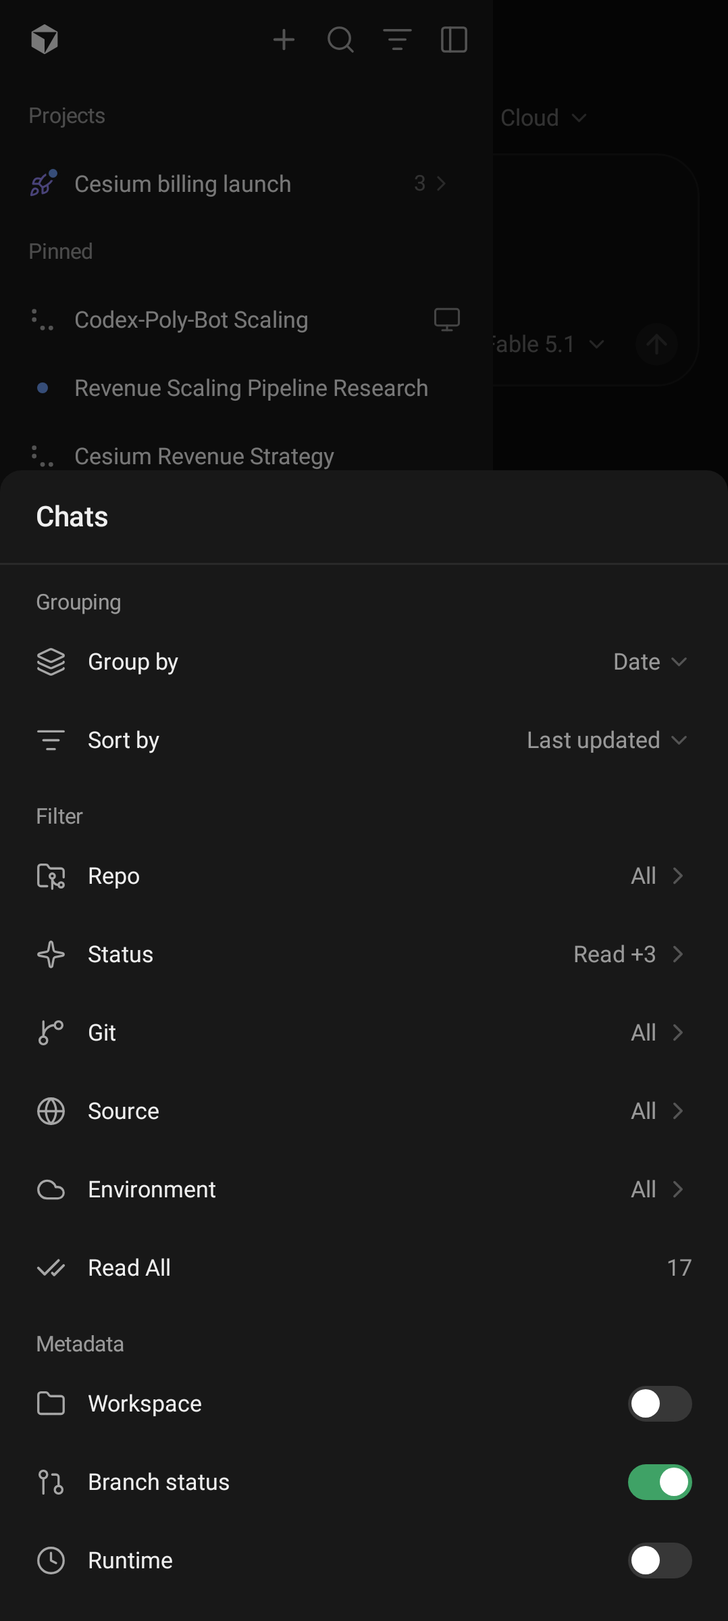
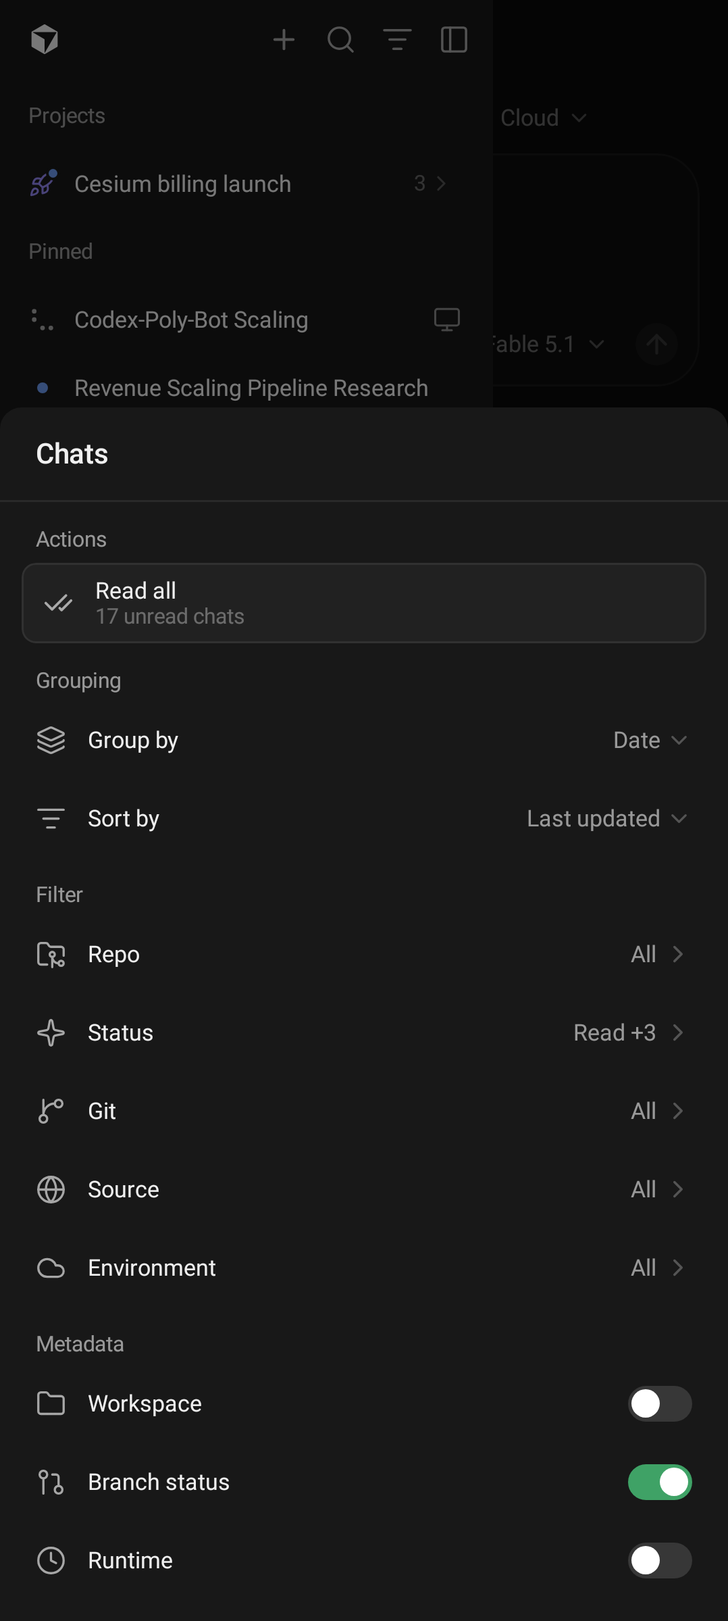
Chats sheet: an Actions card leads the sheet, with Read all as its first quick action
Bennett's request: the read-all action moves from the end of the Filter rows to the very top of the sidebar's filter
sheet, in a section of its own — an "Actions" header and one card — so further quick actions can join it later.

`SheetActions.kt`: `SheetAction` (icon, label, optional subtitle, enabled, onClick), `ActionsSection` (the header and
the card, a row per action with a hairline between) and `ActionRow`. `readAllAction` is the one action today: its
subtitle is the unread count ("17 unread chats", "1 unread chat"), and with nothing unread it says so and the row is
off, dimmed rather than gone. The old `ReadAllRow` in the Filter section is removed — the sheet was the action's only
surface, so nothing is duplicated.

Tests: `SheetActionsTest` (rows, subtitles, enabled/disabled taps, the read-all action's states) and a
`CustomizeSheetTest` case that the card sits above Grouping and the filters, reads the count, marks every chat read
and goes off. Screenshots: `04_chats_filter` re-recorded; `58_chats_filter_all_read` added (the dimmed state).

diff --git a/app/src/main/java/com/cursorforandroid/ui/customize/SheetActions.kt b/app/src/main/java/com/cursorforandroid/ui/customize/SheetActions.kt
@@ -1,0 +1,104 @@
+package com.cursorforandroid.ui.customize
+
+import androidx.compose.foundation.layout.Column
+import androidx.compose.foundation.layout.Row
+import androidx.compose.foundation.layout.Spacer
+import androidx.compose.foundation.layout.fillMaxWidth
+import androidx.compose.foundation.layout.heightIn
+import androidx.compose.foundation.layout.padding
+import androidx.compose.foundation.layout.size
+import androidx.compose.foundation.layout.width
+import androidx.compose.material3.Icon
+import androidx.compose.material3.Text
+import androidx.compose.runtime.Composable
+import androidx.compose.ui.Alignment
+import androidx.compose.ui.Modifier
+import androidx.compose.ui.graphics.vector.ImageVector
+import androidx.compose.ui.platform.testTag
+import androidx.compose.ui.text.style.TextOverflow
+import androidx.compose.ui.unit.dp
+import com.cursorforandroid.ui.components.CursorCard
+import com.cursorforandroid.ui.components.CursorIcons
+import com.cursorforandroid.ui.components.HairlineDivider
+import com.cursorforandroid.ui.components.pressable
+import com.cursorforandroid.ui.theme.CursorDimens
+import com.cursorforandroid.ui.theme.CursorTheme
+
+/**
+ * One quick action a sheet offers at its top: what it is called, what it does, and — under the label — what it
+ * would act on right now, or why it cannot ("17 unread chats", "Nothing unread"). A disabled action stays listed,
+ * dimmed, so the sheet reads the same whatever the state.
+ */
+data class SheetAction(
+    val icon: ImageVector,
+    val label: String,
+    val subtitle: String? = null,
+    val enabled: Boolean = true,
+    val onClick: () -> Unit,
+)
+
+/**
+ * The "Actions" group of a sheet: its header and one card holding [actions], a row each with a hairline between.
+ * Built to take more rows as quick actions are added; today the Chats sheet has one (see [readAllAction]).
+ */
+@Composable
+fun ActionsSection(actions: List<SheetAction>, modifier: Modifier = Modifier, title: String = "Actions") {
+    val colors = CursorTheme.colors
+    Column(modifier.fillMaxWidth()) {
+        Text(
+            title,
+            style = CursorTheme.typography.small,
+            color = colors.textTertiary,
+            modifier = Modifier.padding(start = 20.dp, end = 20.dp, top = 14.dp, bottom = 6.dp),
+        )
+        // A faint fill over the sheet's own surface, so the card reads as one group against the flat rows below it.
+        CursorCard(Modifier.fillMaxWidth().padding(horizontal = 12.dp).testTag("sheet-actions"), fill = colors.fillFaint) {
+            actions.forEachIndexed { index, action ->
+                if (index > 0) HairlineDivider(Modifier.padding(horizontal = 12.dp))
+                ActionRow(action)
+            }
+        }
+    }
+}
+
+/** One row of an [ActionsSection]: the glyph at 66 %, the label, its subtitle beneath; dimmed and not pressable when disabled. */
+@Composable
+fun ActionRow(action: SheetAction) {
+    val colors = CursorTheme.colors
+    val type = CursorTheme.typography
+    Row(
+        Modifier
+            .fillMaxWidth()
+            .pressable(action.onClick, CursorTheme.shapes.lg, enabled = action.enabled)
+            .heightIn(min = CursorDimens.listRow)
+            .padding(horizontal = 12.dp, vertical = 8.dp)
+            .testTag("sheet-action-${action.label}"),
+        verticalAlignment = Alignment.CenterVertically,
+    ) {
+        Icon(action.icon, null, tint = if (action.enabled) colors.iconSecondary else colors.iconQuaternary, modifier = Modifier.size(17.dp))
+        Spacer(Modifier.width(12.dp))
+        Column(Modifier.weight(1f)) {
+            Text(action.label, style = type.base, color = if (action.enabled) colors.textPrimary else colors.textQuaternary, maxLines = 1, overflow = TextOverflow.Ellipsis)
+            action.subtitle?.let { Text(it, style = type.small, color = colors.textQuaternary, maxLines = 1, overflow = TextOverflow.Ellipsis) }
+        }
+    }
+}
+
+/**
+ * "Read all": marks every loaded chat read. Its subtitle is how many chats are unread right now; with none it says
+ * so and the row is off.
+ */
+fun readAllAction(unreadCount: Int, onClick: () -> Unit): SheetAction = SheetAction(
+    icon = CursorIcons.CheckCheck,
+    label = READ_ALL,
+    subtitle = when (unreadCount) {
+        0 -> "Nothing unread"
+        1 -> "1 unread chat"
+        else -> "$unreadCount unread chats"
+    },
+    enabled = unreadCount > 0,
+    onClick = onClick,
+)
+
+/** The read-all action's label, as the sheet and its tests spell it. */
+const val READ_ALL = "Read all"

diff --git a/app/src/test/java/com/cursorforandroid/ui/customize/SheetActionsTest.kt b/app/src/test/java/com/cursorforandroid/ui/customize/SheetActionsTest.kt
@@ -1,0 +1,78 @@
+package com.cursorforandroid.ui.customize
+
+import androidx.compose.runtime.getValue
+import androidx.compose.runtime.mutableIntStateOf
+import androidx.compose.runtime.setValue
+import androidx.compose.ui.test.assertIsDisplayed
+import androidx.compose.ui.test.assertIsEnabled
+import androidx.compose.ui.test.assertIsNotEnabled
+import androidx.compose.ui.test.junit4.createComposeRule
+import androidx.compose.ui.test.onNodeWithTag
+import androidx.compose.ui.test.onNodeWithText
+import androidx.compose.ui.test.performClick
+import androidx.test.ext.junit.runners.AndroidJUnit4
+import com.cursorforandroid.ui.components.CursorIcons
+import com.cursorforandroid.ui.theme.CursorTheme
+import com.cursorforandroid.ui.theme.ThemeMode
+import com.google.common.truth.Truth.assertThat
+import org.junit.Rule
+import org.junit.Test
+import org.junit.runner.RunWith
+import org.robolectric.annotation.Config
+import org.robolectric.annotation.GraphicsMode
+
+/** The sheet's Actions card on its own: a list of rows that read their state, take a tap while enabled, and dim otherwise. */
+@RunWith(AndroidJUnit4::class)
+@GraphicsMode(GraphicsMode.Mode.NATIVE)
+@Config(sdk = [35], qualifiers = "w411dp-h914dp-night-420dpi")
+class SheetActionsTest {
+
+    @get:Rule
+    val compose = createComposeRule()
+
+    @Test
+    fun `each action is a row with its label and subtitle, and only an enabled one takes the tap`() {
+        var taps = 0
+        compose.setContent {
+            CursorTheme(mode = ThemeMode.Dark) {
+                ActionsSection(
+                    listOf(
+                        SheetAction(CursorIcons.CheckCheck, "Read all", "3 unread chats", onClick = { taps++ }),
+                        SheetAction(CursorIcons.Archive, "Archive finished", "Nothing finished", enabled = false, onClick = { taps += 100 }),
+                        SheetAction(CursorIcons.Refresh, "Refresh", onClick = { taps += 10 }),
+                    ),
+                )
+            }
+        }
+        compose.onNodeWithText("Actions").assertIsDisplayed()
+        compose.onNodeWithTag("sheet-actions").assertIsDisplayed()
+        compose.onNodeWithText("Read all").assertIsDisplayed()
+        compose.onNodeWithText("3 unread chats").assertIsDisplayed()
+        compose.onNodeWithText("Nothing finished").assertIsDisplayed()
+        compose.onNodeWithTag("sheet-action-Read all").assertIsEnabled()
+        compose.onNodeWithTag("sheet-action-Archive finished").assertIsNotEnabled()
+
+        compose.onNodeWithTag("sheet-action-Read all").performClick()
+        compose.onNodeWithTag("sheet-action-Archive finished").performClick()
+        compose.onNodeWithTag("sheet-action-Refresh").performClick()
+        assertThat(taps).isEqualTo(11)
+    }
+
+    @Test
+    fun `the read-all action says how many are unread and goes off when none is`() {
+        var unread by mutableIntStateOf(2)
+        compose.setContent {
+            CursorTheme(mode = ThemeMode.Dark) { ActionsSection(listOf(readAllAction(unread) { unread = 0 })) }
+        }
+        compose.onNodeWithText("2 unread chats").assertIsDisplayed()
+        compose.onNodeWithTag("sheet-action-$READ_ALL").assertIsEnabled()
+
+        compose.onNodeWithTag("sheet-action-$READ_ALL").performClick()
+        compose.onNodeWithText("Nothing unread").assertIsDisplayed()
+        compose.onNodeWithTag("sheet-action-$READ_ALL").assertIsNotEnabled()
+
+        unread = 1
+        compose.onNodeWithText("1 unread chat").assertIsDisplayed()
+        compose.onNodeWithTag("sheet-action-$READ_ALL").assertIsEnabled()
+    }
+}

diff --git a/app/src/main/java/com/cursorforandroid/ui/customize/CustomizeSheet.kt b/app/src/main/java/com/cursorforandroid/ui/customize/CustomizeSheet.kt
@@ -43,8 +43,6 @@ import androidx.compose.runtime.setValue
 import androidx.compose.ui.Alignment
 import androidx.compose.ui.Modifier
 import androidx.compose.ui.graphics.vector.ImageVector
-import androidx.compose.ui.semantics.contentDescription
-import androidx.compose.ui.semantics.semantics
 import androidx.compose.ui.text.style.TextOverflow
 import androidx.compose.ui.unit.IntOffset
 import androidx.compose.ui.unit.dp
@@ -73,9 +71,9 @@ import kotlinx.coroutines.Job
 import kotlinx.coroutines.launch
 
 /**
- * The "Chats" filter menu (the filter icon in the sidebar header) as a bottom sheet: grouping, sort, the
- * Repo / Status / Git / Source / Environment filters, Read All, and the metadata toggles. Flat 40dp rows, 13sp,
- * desktop-size toggles.
+ * The "Chats" filter menu (the filter icon in the sidebar header) as a bottom sheet: the quick actions first (Read
+ * all, in a card of its own — see [ActionsSection]), then grouping, sort, the Repo / Status / Git / Source /
+ * Environment filters, and the metadata toggles. Flat 40dp rows, 13sp, desktop-size toggles.
  */
 @OptIn(ExperimentalMaterial3Api::class)
 @Composable
@@ -172,6 +170,9 @@ private fun LazyListScope.rows(content: @Composable ColumnScope.() -> Unit) = it
 
 @Composable
 private fun RootPage(prefs: ListPreferences, unreadCount: Int, viewModel: AgentsViewModel, onOpen: (FilterKind) -> Unit) {
+    // The quick actions lead: one card, above everything that merely arranges the list (see SheetActions.kt).
+    ActionsSection(listOf(readAllAction(unreadCount, viewModel::markAllRead)))
+
     SectionLabel("Grouping")
     PickerRow(CursorIcons.Layers, "Group by", GroupBy.entries.map { it.label }, prefs.groupBy.ordinal) { viewModel.setGroupBy(GroupBy.entries[it]) }
     PickerRow(CursorIcons.Filter, "Sort by", SortOrder.entries.map { it.label }, prefs.sortOrder.ordinal) { viewModel.setSortOrder(SortOrder.entries[it]) }
@@ -182,7 +183,6 @@ private fun RootPage(prefs: ListPreferences, unreadCount: Int, viewModel: Agents
     DrillRow(CursorIcons.GitBranch, "Git", prefs.summaryFor(FilterKind.Git)) { onOpen(FilterKind.Git) }
     DrillRow(CursorIcons.Globe, "Source", prefs.summaryFor(FilterKind.Source)) { onOpen(FilterKind.Source) }
     DrillRow(CursorIcons.Cloud, "Environment", prefs.summaryFor(FilterKind.Environment)) { onOpen(FilterKind.Environment) }
-    ReadAllRow(unreadCount = unreadCount, onClick = viewModel::markAllRead)
 
     SectionLabel("Metadata")
     ToggleRow(CursorIcons.Folder, "Workspace", prefs.showWorkspace, viewModel::setShowWorkspace)
@@ -227,24 +227,6 @@ private fun RowShell(
         }
         Text(label, style = CursorTheme.typography.base, color = labelColor, modifier = Modifier.weight(1f), maxLines = 1, overflow = TextOverflow.Ellipsis)
         trailing()
-    }
-}
-
-/** Marks every loaded conversation read. Dims when nothing is unread. */
-@Composable
-private fun ReadAllRow(unreadCount: Int, onClick: () -> Unit) {
-    val colors = CursorTheme.colors
-    val enabled = unreadCount > 0
-    RowShell(CursorIcons.CheckCheck, "Read All", onClick = onClick, enabled = enabled) {
-        if (enabled) {
-            Text(
-                unreadCount.toString(),
-                style = CursorTheme.typography.base,
-                color = colors.textTertiary,
-                maxLines = 1,
-                modifier = Modifier.semantics { contentDescription = "$unreadCount unread" },
-            )
-        }
     }
 }
 

diff --git a/app/src/test/java/com/cursorforandroid/ui/customize/CustomizeSheetTest.kt b/app/src/test/java/com/cursorforandroid/ui/customize/CustomizeSheetTest.kt
@@ -2,9 +2,14 @@ package com.cursorforandroid.ui.customize
 
 import android.content.Context
 import androidx.activity.ComponentActivity
+import androidx.compose.ui.test.assertIsDisplayed
+import androidx.compose.ui.test.assertIsEnabled
+import androidx.compose.ui.test.assertIsNotEnabled
 import androidx.compose.ui.test.hasScrollToNodeAction
 import androidx.compose.ui.test.hasText
 import androidx.compose.ui.test.junit4.createAndroidComposeRule
+import androidx.compose.ui.test.onAllNodesWithText
+import androidx.compose.ui.test.onNodeWithTag
 import androidx.compose.ui.test.onNodeWithText
 import androidx.compose.ui.test.performClick
 import androidx.compose.ui.test.performScrollToNode
@@ -85,6 +90,29 @@ class CustomizeSheetTest {
         compose.onNodeWithText("Repo").performClick()
         awaitOnScreen { composed("All repositories") }
         return viewModel
+    }
+
+    @Test
+    fun `the Actions card leads the sheet, and Read all marks every chat read and then goes off`() {
+        val viewModel = AgentsViewModel(graph)
+        compose.setContent {
+            CursorTheme(mode = ThemeMode.Dark) { CustomizeSheet(viewModel, onDismiss = {}) }
+        }
+        awaitOnScreen { composed("Grouping") && viewModel.uiState.value.unreadCount == repoCount }
+        // Actions sit above Grouping and the filters, in their own card, with the count on the row.
+        val actionsTop = compose.onNodeWithTag("sheet-actions").fetchSemanticsNode().boundsInRoot.top
+        assertThat(actionsTop).isLessThan(compose.onNodeWithText("Grouping").fetchSemanticsNode().boundsInRoot.top)
+        assertThat(actionsTop).isLessThan(compose.onNodeWithText("Status").fetchSemanticsNode().boundsInRoot.top)
+        compose.onNodeWithText("Actions").assertIsDisplayed()
+        compose.onNodeWithText("$repoCount unread chats").assertIsDisplayed()
+        compose.onNodeWithTag("sheet-action-$READ_ALL").assertIsEnabled()
+
+        compose.onNodeWithTag("sheet-action-$READ_ALL").performClick()
+        awaitOnScreen { viewModel.uiState.value.unreadCount == 0 }
+        compose.onNodeWithText("Nothing unread").assertIsDisplayed()
+        compose.onNodeWithTag("sheet-action-$READ_ALL").assertIsNotEnabled()
+        // Read all is the card's only action, and the filters list no such row of their own any more.
+        assertThat(compose.onAllNodesWithText(READ_ALL).fetchSemanticsNodes()).hasSize(1)
     }
 
     @Test

diff --git a/app/src/test/java/com/cursorforandroid/screenshots/AppScreenshotTest.kt b/app/src/test/java/com/cursorforandroid/screenshots/AppScreenshotTest.kt
@@ -421,16 +421,18 @@ class AppScreenshotTest {
         compose.waitUntil(20_000) { compose.onAllNodes(hasContentDescription("New chat")).fetchSemanticsNodes().isNotEmpty() }
         waitForSidebarSections()
         compose.onNodeWithContentDescription("Filter and group chats").performClick()
-        waitForText("Read All")
+        // The Actions card leads the sheet: Read all, with the unread count under it.
+        waitForText("Read all")
+        waitForText("unread chats")
         capture("04_chats_filter")
 
-        compose.onNodeWithText("Read All").performClick()
-        // The count is the UI's word that the write landed. Do not read DataStore from waitUntil:
+        compose.onNodeWithText("Read all").performClick()
+        // The row's own word is the UI's word that the write landed. Do not read DataStore from waitUntil:
         // that blocks the main thread and the mark-all coroutine never finishes.
-        compose.waitUntil(10_000) {
-            compose.onAllNodes(hasContentDescription("unread", substring = true)).fetchSemanticsNodes().isEmpty()
-        }
+        waitForText("Nothing unread", 10_000)
         compose.waitForIdle()
+        // Nothing left to read: the action stays listed, dimmed, so the sheet reads the same either way.
+        capture("58_chats_filter_all_read")
         Espresso.pressBack()
         compose.waitUntil(10_000) { compose.onAllNodesWithText("Grouping").fetchSemanticsNodes().isEmpty() }
         compose.waitForIdle()

diff --git a/README.md b/README.md
@@ -10,7 +10,7 @@ Not affiliated with Anysphere, Inc.
 - New Chat pane as home: repository / branch / environment selectors, the composer (the "+" menu, model picker with plan mode and auto-PR, send), then the recent chats with preview cards. The branch picker offers the repository's default branch and every branch its agents have started from or pushed — the API has no branch listing, so that is what the app can know — and takes any other branch by name. The model picker lists each model from `GET /v1/models` once; a model's parameters — effort, speed, context window — unfold under it as pickers (a toggle for an on/off parameter, a row of choices otherwise), and every choice resolves to a variant the API lists, so the request never carries a `model.params` combination the model does not accept. Sending opens the chat at once: the prompt (with its images) is on screen and the chat reads "Starting…" before `POST /v1/agents` has answered, with the new row already in the list; the reply swaps in the run and starts its stream. The composer is empty from that moment: the launch belongs to the app, not to the pane that sent it, so going back — or starting another chat — while the server has yet to answer meets a New Chat pane that is ready, never one still occupied by the previous send. The prompt is kept on the device until the legacy transcript has caught up with it, so it never blinks out while `/v0/agents/{id}/conversation` lags behind the run list. A launch that fails, or is stopped from the chat, hands its draft back to the composer (with the reason, for a failure) — as soon as the composer is free, if another draft is being written by then; the app mints the agent id itself (`agentId`), so re-sending an unchanged draft adopts the agent a lost reply may already have created (`409 agent_id_conflict`) instead of launching a duplicate.
 - Slash commands, as on cursor.com/agents: typing `/` in either composer opens a popover under the cursor listing what the message can lead with — `/goal` and the other commands, the built-in cloud skills (`/autopilot`, `/review`, `/review-bugbot`, `/review-security`, `/split-to-prs`, `/subscribe`, `/loop`, …), and the repository's own `.cursor/skills`, plugin and synced skills — narrowed by what follows the slash (names first, then descriptions, so `/go` offers `/goal` and a skill whose description mentions Google), and a tap completes the token. A `/command` standing in the text is painted in the Cursor orange, as on the web and desktop; `/multitask` and `/plan` alone are pills beside "+" rather than text — typed with a space after them, or picked from the popover, they leave the text and the pill goes on, and its cross takes it off. The two are one slot (a run is planned or fanned out to subagents, not both): turning either on takes the other off, so at most one pill is ever worn. What is sent is unchanged: the prompt still leads with `/multitask`, and `/plan` is plan mode (`mode: "plan"`), never text. The list is the account's, read over the same Connect-JSON channel as the pins from `aiserver.v1.DashboardService`: `GetRepoSlashCommands` for a new chat (the repository at its branch, project plugin skills included), `GetBackgroundComposerSlashCommands` for a follow-up (which also carries the `.cursor/commands` the agent's machine reported, and says when that inventory is still on its way, in which case the popover says so and asks again shortly), and `GetGlobalCommands` for the commands that apply everywhere. Catalogs are cached per repository / agent on disk and revalidated every ten minutes; the built-ins stand in offline, in demo mode and under a key the account service refuses. A name the catalog does not list is still offered and remembered once used, since project and synced skills are real on the VM whether or not anything reported them.
 - The composer's "+" menu, as on cursor.com/agents: Multitask (toggles `/multitask` at the front of the prompt, worn as the Multitask pill), Files (image attachments via the system photo picker), Skills (the same catalog as the `/` popover, searchable, toggled as `/name`), and MCP Servers (HTTP or stdio servers defined in the app, stored encrypted, toggled per server and sent inline as `mcpServers[]` with every prompt while enabled). The same menu sits on the follow-up composer.
-- Sidebar (edge-swipe drawer on phones, permanent 280dp column on tablets and foldables): one header row with the "+" new-chat button, search, the filter menu (group by, sort, Repo / Status / Git / Source / Environment filters — the Git filter shows or hides chats by where their pull request stands, open, draft, merged or closed, or that have none; the Source filter is the one cursor.com/agents and the desktop Agents window have, where each chat was started: Cursor desktop, Cursor web, the mobile app, the CLI, Slack, Microsoft Teams, Linear, Jira, source control (GitHub / GitLab / Bitbucket / Origin comments), the API, the SDK, Automations, Bugbot, Grok Bot, plus "This device" for the chats launched from this app and "Other" for Cursor's internals; the Environment filter is where each chat runs, Cursor's cloud, a team pool or one of your machines — and metadata toggles) and the sidebar toggle, then the Projects, Pinned and date groups; pull-to-refresh, long-press actions (pin, rename, open on cursor.com, copy link, archive / unarchive). Rename and archive go through the same account RPCs the desktop Agents window and the iOS app use, so a title or archive changed here shows there and the other way around.
+- Sidebar (edge-swipe drawer on phones, permanent 280dp column on tablets and foldables): one header row with the "+" new-chat button, search, the filter menu (an Actions card first — Read all, saying how many chats are unread and off when none is — then group by, sort, Repo / Status / Git / Source / Environment filters — the Git filter shows or hides chats by where their pull request stands, open, draft, merged or closed, or that have none; the Source filter is the one cursor.com/agents and the desktop Agents window have, where each chat was started: Cursor desktop, Cursor web, the mobile app, the CLI, Slack, Microsoft Teams, Linear, Jira, source control (GitHub / GitLab / Bitbucket / Origin comments), the API, the SDK, Automations, Bugbot, Grok Bot, plus "This device" for the chats launched from this app and "Other" for Cursor's internals; the Environment filter is where each chat runs, Cursor's cloud, a team pool or one of your machines — and metadata toggles) and the sidebar toggle, then the Projects, Pinned and date groups; pull-to-refresh, long-press actions (pin, rename, open on cursor.com, copy link, archive / unarchive). Rename and archive go through the same account RPCs the desktop Agents window and the iOS app use, so a title or archive changed here shows there and the other way around.
 - Cursor Projects, as the Agents Window tells them apart: a Project — the coordinator chat that plans a body of work, delegates it to worker agents and keeps the shared context — leads the sidebar in a Projects group with its icon in its colour (the ten tones and the icon names of the desktop's project appearance picker, `lightning` in the secondary icon tone when none is set), whether or not it is pinned. The chats that hang off a chat — the workers a Project created or adopted, side chats branched off it, cloud subagents it spawned — sit under it as a tree, closed until the count at the row's trailing edge is tapped (the working glyph sits beside the count while a hidden one is running); a child whose parent is not listed, or that is pinned, stands on its own. The Chats filters never take a Project off the list: they are about single chats — status, pull request, source, environment, repository — and a Project has many of each under it, so its row stands whatever they say, with its tree and its count (a coordinator whose own pull request is merged stays when merged pull requests are excluded); only an archived Project, or an archived chat under one, is put away as any archived chat is, and comes back with Archived checked. The search still finds a Project by its name. The public API has no notion of any of this: it is read from the account's list (`projectMetadata`, `managerAgentId`, `sideChatInfo`, `cloudSubagentParent`, derived exactly as the desktop derives `isProject` and its parent links — a record with `projectMetadata` and no manager is a Project, the parent is the first of subagent parent, side-chat parent and manager) and kept on the row across refreshes and on disk like the source.
 - Pinned chats are the account's, shared with the desktop Agents window and the iOS app: the pin list is read from `aiserver.v1.BackgroundComposerService/ListBackgroundComposers` (`includePinnedState` → `pinnedBcIds`) after every list refresh and changed with `Pin` / `UnpinBackgroundComposers`, over the same Connect-JSON channel the sign-in uses. Those RPCs take the account session rather than the API key, so the stored key is exchanged for one on demand (`POST api2.cursor.sh/auth/exchange_user_api_key`, the Cursor CLI's `--api-key` login) and the session is kept in memory only. A pin toggled here shows at once and reaches the server now or at the next sync (pending changes survive restarts and win over the server's answer until acknowledged); the first sync of an account pushes the pins made on this device before syncing existed; pinned agents past the list window are fetched by id and kept through later listings. Settings › Chats turns the sync off to keep pins on the device, and shows why it is not going through when it isn't (a device policy, a key the account service refuses).
 - Conversation view: transcript (`/v0/agents/{id}/conversation`), run footers ("Worked 3m 5s"), a pull-request button in the header beside the menu once the agent has opened one (the chat's only link to its PR, so a long transcript never scrolls it out of reach), live SSE streaming of the active run and markdown rendering; follow-ups with image attachments (`prompt.images`), stop, and press-and-hold on any prompt or reply to copy it. The turns Cursor starts on its own — a goal carrying over to the next turn, a background subagent reporting back — reach the transcript as `user_message`s made of the `<system_notification>` markup written for the model, not as anything the user said; they render as one row in the trace's own voice ("Goal continued · In the Verity photoreal engine…", "Subagent completed · Contacts, clipping and pose naturalness", red for a failed one) that opens onto the objective or the subagent's report, and press-and-hold still copies the notification as injected. A stream that drops — a network change, the agent's machine waking up after a follow-up (`stream_unavailable`), a server-side `upstream_error` — is a connection problem, not the run's: the trace stays put, the working row says "Reconnecting…", and the stream is resumed with `Last-Event-ID` and backoff for as long as the run record says the run is going; a run whose stream is gone for good is settled from the record instead. Everything the agent does between two replies — its reasoning and tool calls, in the order they happened — is laid out the way Cursor's own client lays out a step group (ported from the desktop build's `tool-action-labels` / `step-group-display`): a thought before any tool call is its own "Thought 3s" row, and the tool calls with the thoughts between them sit behind one summary — "Explored 3 files, 2 searches, ran 1 command", "Edited 2 files, explored 3 files +12 -3", "Ran 1 command" — whose verb shimmers while the work is still going, and which opens onto one line per step in Cursor's words: "Read Timeline.kt", "Grepped ModelSheet in ui", "Searched files *.kt in app", "Edited HomeScreen.kt +12 -3", "Ran ./gradlew test", "Searched web …", "Fetched page …", "Completed task Survey the API", "Explored available tools", and "Ran list_pull_requests in Github" for an MCP tool; a failed call reads "Edit attempted", and one or two bare reads stay as lines rather than a group. A tap on a line opens what the call was asked and what came back — the command and its output, the MCP input and result, the full path or query. Finished runs replay their retained event stream, so the same trace is there to dig into after the fact; a trace seen whole — followed live to its `result` (on screen or by the live notification) or replayed — is written to disk the moment it is, one file per run, and a run that ends while the screen is away, or whose stream broke, is replayed from its first event rather than left as the fragment the screen had. Runs whose log expired (`410 stream_expired`) before it was ever seen keep the text-only transcript (in Extended mode their turns come back from the account's own transcript, `FetchBackgroundComposer`). A chat opens on its newest ten turns — the first page of the run list and the transcript's text are enough for the first frame, the rest of the run records follow behind the cursor — and scrolling up pages the older turns in ten at a time, each with its traces read from disk or replayed; the window that was open is what the next start renders from disk. An SSE frame too large to buffer (an `interaction_update` carrying a generated image) is skipped rather than ending the connection.
